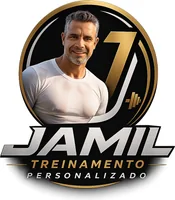
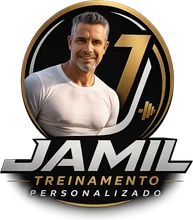
feat: adiciona case Minas Eventos ao carrossel

diff --git a/app/globals.css b/app/globals.css
@@ -218,7 +218,7 @@
     display: flex;
     width: max-content;
     gap: 1rem;
-    animation: marquee-x 34s linear infinite;
+    animation: marquee-x 58s linear infinite;
     will-change: transform;
   }
 
@@ -233,34 +233,28 @@
     padding-block: 0.25rem;
   }
 
+  /* Logos transparentes flutuando sobre o fundo preto — sem plaquinha clara */
   .client-logo-chip {
     display: flex;
     align-items: center;
     justify-content: center;
     width: clamp(10rem, 17vw, 15rem);
-    height: clamp(4rem, 5vw, 4.5rem);
+    height: clamp(4.5rem, 6vw, 5.5rem);
     flex: 0 0 auto;
-    border: 1px solid rgba(201, 162, 39, 0.2);
-    border-radius: 8px;
-    background: #f7f1e4;
-    padding: 0.7rem 1.05rem;
-    box-shadow:
-      inset 0 1px 0 rgba(255, 255, 255, 0.75),
-      0 18px 55px rgba(0, 0, 0, 0.22);
+    background: transparent;
+    padding: 0.4rem 1.4rem;
+    opacity: 0.92;
+    filter: drop-shadow(0 8px 22px rgba(0, 0, 0, 0.45));
     transition:
       transform 220ms var(--ease-expo),
-      border-color 220ms var(--ease-expo),
-      box-shadow 220ms var(--ease-expo),
-      opacity 220ms var(--ease-expo);
+      opacity 220ms var(--ease-expo),
+      filter 220ms var(--ease-expo);
   }
 
   .client-logo-chip:hover {
-    transform: scale(1.03);
-    border-color: rgba(201, 162, 39, 0.42);
-    box-shadow:
-      inset 0 1px 0 rgba(255, 255, 255, 0.82),
-      0 22px 70px rgba(201, 162, 39, 0.12),
-      0 24px 70px rgba(0, 0, 0, 0.3);
+    transform: scale(1.05);
+    opacity: 1;
+    filter: drop-shadow(0 10px 26px rgba(201, 162, 39, 0.22));
   }
 
   .gold-pulse-dot {

diff --git a/lib/assets.ts b/lib/assets.ts
@@ -81,8 +81,8 @@ export const ASSETS = {
     {
       name: 'Jamil — Treinamento Personalizado',
       src: '/assets/cases/jamil.webp',
-      width: 175,
-      height: 200,
+      width: 193,
+      height: 220,
     },
     {
       name: 'Ohana',
@@ -93,8 +93,14 @@ export const ASSETS = {
     {
       name: 'Mimo Power',
       src: '/assets/cases/mimo-power.webp',
-      width: 578,
-      height: 200,
+      width: 635,
+      height: 220,
+    },
+    {
+      name: 'Minas Eventos — Foodtruck e Barracas',
+      src: '/assets/cases/minas-eventos.webp',
+      width: 288,
+      height: 220,
     },
   ],
 } as const;
